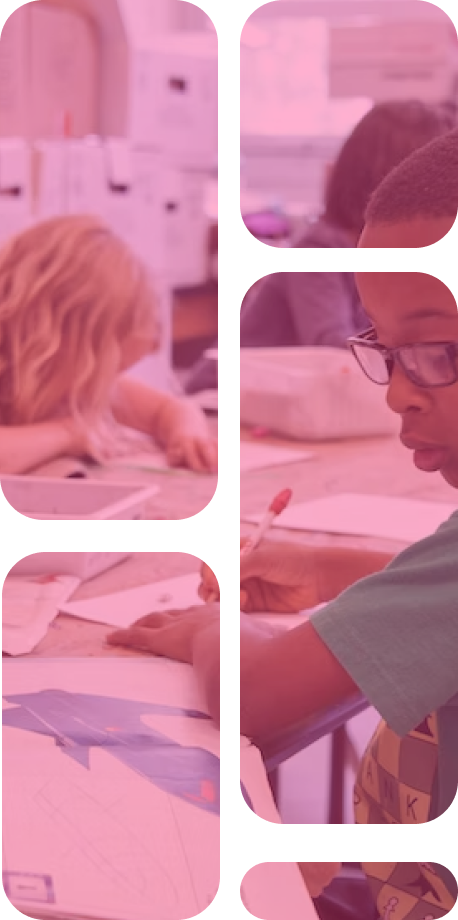
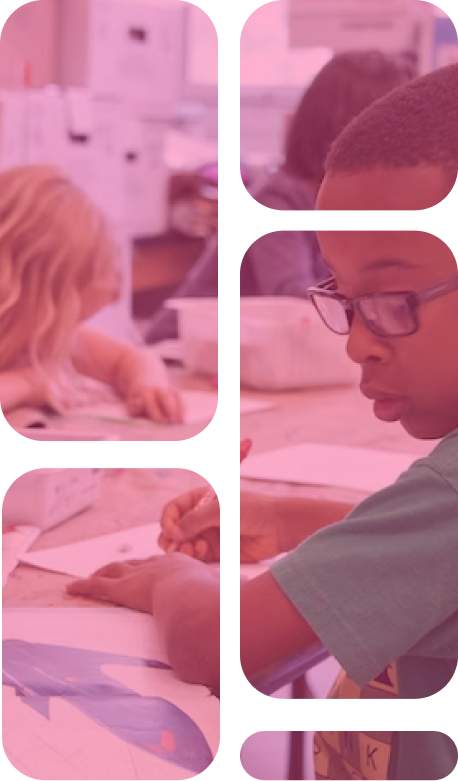
Seção conteúdo

diff --git a/src/components/Conetudo.tsx b/src/components/Conetudo.tsx
@@ -1,0 +1,57 @@
+import Card from "./ui/Card";
+export default function Conteudo() {
+  return (
+    <section className=" bg-gray-100 py-24 lg:px-8 ">
+
+      <div className="container max-w-[1440px] mx-auto px-4 flex flex-col gap-8 lg:flex-row grid-cols-5 lg:gap-8 xl:gap-0 ">
+
+        <div className="col-span-2 flex flex-col gap-8">
+          <div className="flex flex-col gap-2 lg:items-start">
+            <p className="text-[1.2rem]  font-medium  text-[var(--pink)] uppercase lg:text-start lg:text-[1.4rem] lg:max-w-2xl -tracking-tighter ">
+              Conteúdo
+            </p>
+            <h2 className="text-start font-bold text-4xl text-[var(--dark-color)] lg:text-4xl xl:text-5xl">
+              O que você vai encontrar no ebook
+            </h2>
+          </div>
+          <img className="hidden lg:block xl:max-w-[450px]" src="/foto_conteudo_desktop.webp" alt="" />
+          <img className="block lg:hidden xl:max-w-[450px]" src="/foto_conteudo_mobile.webp" alt="" />
+        </div>
+
+        <div className="flex flex-col gap-4 col-span-3">
+          <Card
+            icon="/icon_balo_1x.webp"
+            alt="Ícone de balão"
+            title="Desperte o Interesse"
+            text="Argumentos científicos que realmente motivam seu filho a estudar, mesmo quando outras estratégias falharam."
+          />
+          <Card
+            icon="/icon_cerebro_1x.webp"
+            alt="Ícone de balão"
+            title="Personalização Inteligente"
+            text="Como identificar o nível de desenvolvimento pedagógico do seu filho e adaptar o aprendizado às suas necessidades."
+          />
+          <Card
+            icon="/icon_lampada_1x.webp"
+            alt="Ícone de balão"
+            title="Transformação Diária"
+            text="Dicas práticas de bons hábitos que influenciam diretamente na aprendizagem e no desempenho escolar."
+          />
+          <Card
+            icon="/icon_medalha_1x.webp"
+            alt="Ícone de balão"
+            title="Expertise Validada"
+            text="Método validado por profissional com 13 anos de experiência que já transformou a rotina de +150 famílias."
+          />
+          <Card
+            icon="/icon_foguete_1x.webp"
+            alt="Ícone de balão"
+            title="Sistema Exclusivo"
+            text="Estratégia CCC exclusiva para construir uma rotina de estudos produtiva que gera resultados reais."
+          />
+        </div>
+
+      </div>
+    </section>
+  );
+}

diff --git a/src/components/Hero.tsx b/src/components/Hero.tsx
@@ -2,7 +2,7 @@ import Button from "./Button";
 
 export default function Hero() {
   return (
-    <section className="container px-4 py-8 mx-auto flex flex-col gap-8 lg:flex-row items-center lg:px-8 lg:justify-between ">
+    <section className="container max-w-[1440px] px-4 py-8 mx-auto flex flex-col gap-8 lg:flex-row items-center  lg:px-8 lg:justify-between ">
       <div className="flex flex-col gap-12  ">
 
         <div className="flex flex-col items-center gap-4 lg:items-start">
@@ -10,7 +10,7 @@ export default function Hero() {
           <h1 className="text-center font-bold text-4xl text-[var(--dark-color)] lg:text-start lg:text-6xl 2xl:text-7xl">
             Construindo o <span className="text-[var(--purple-light)]">sucesso escolar </span>
           </h1>
-          <p className="text-[1rem] text-center text-[var(--grey)] lg:text-start lg:max-w-2xl ">
+          <p className="text-[1rem] text-center text-[var(--gray)] lg:text-start lg:max-w-2xl ">
             Um ebook com dicas preciosas para você começar a aplicar ainda hoje,
             e perceber os resultados já nas próximas avaliações do seu filho.
           </p>
@@ -19,11 +19,11 @@ export default function Hero() {
         <div className="bg-[#e9ecf1] outline-8 outline-[#f2f4f7d0] rounded-full flex gap-8 items-center justify-center py-8 px-5 lg:rounded-l-3xl lg:rounded-r-full lg:max-w-[500px]">
           <div className="flex items-center gap-2">
             <h4 className="font-bold text-3xl text-[var(--pink)] lg:text-4xl">+150</h4>
-            <p className="text-[var(--grey)] text-[.8rem]/tight lg:text-[1rem]/tight">Famílias ajudadas</p>
+            <p className="text-[var(--gray)] text-[.8rem]/tight lg:text-[1rem]/tight">Famílias ajudadas</p>
           </div>
           <div className="flex items-center gap-2">
             <h4 className="font-bold text-3xl text-[var(--pink)] lg:text-4xl">+13</h4>
-            <p className="text-[var(--grey)] text-[.8rem]/tight">Anos de experiência</p>
+            <p className="text-[var(--gray)] text-[.8rem]/tight">Anos de experiência</p>
           </div>
           
         </div>

diff --git a/src/components/ui/Card.tsx b/src/components/ui/Card.tsx
@@ -1,0 +1,20 @@
+interface CardProps {
+  icon: string;
+  alt: string;
+  title: string;
+  text: string;
+}
+
+export default function Card({ icon, alt, title, text }: CardProps) {
+  return (
+    <article className="bg-white flex max-[380px]:flex-col max-[380px]:items-start  items-center justify-center p-6 gap-4 rounded-3xl lg:p-10 xl:h-42 xl:px-16">
+      <img className="w-12 h-12 lg:w-16 lg:h-16" src={icon} alt={alt} />
+      <div className="flex flex-col gap-2">
+        <h3 className="text-[1.2rem] font-medium text-[var(--dark-color)]">{title}</h3>
+        <p className="text-[.9rem]/[1.2rem] text-[var(--gray)] w-fill lg:text-base">
+          {text}
+        </p>
+      </div>
+    </article>
+  );
+}

diff --git a/src/App.tsx b/src/App.tsx
@@ -3,6 +3,7 @@
 // import viteLogo from '/vite.svg'
 import './App.css'
 import Hero from './components/Hero'
+import Conteudo from './components/Conetudo'
 
 function App() {
 
@@ -10,6 +11,7 @@ function App() {
   return (
     <>
       <Hero/>
+      <Conteudo/>
     </>
   )
 }

diff --git a/src/index.css b/src/index.css
@@ -4,12 +4,14 @@
 
 :root {
   --dark-color: #171620;
-  --grey: #474650;
-  --purple: #7A00B3;
+  --gray: #474650;
+  --purple: #7a00b3;
   --purple-light: #a70ca1;
-  --pink: #FF3F8C;
+  --pink: #ff3f8c;
 }
 
 body {
   font-family: "Poppins", sans-serif;
 }
+
+
